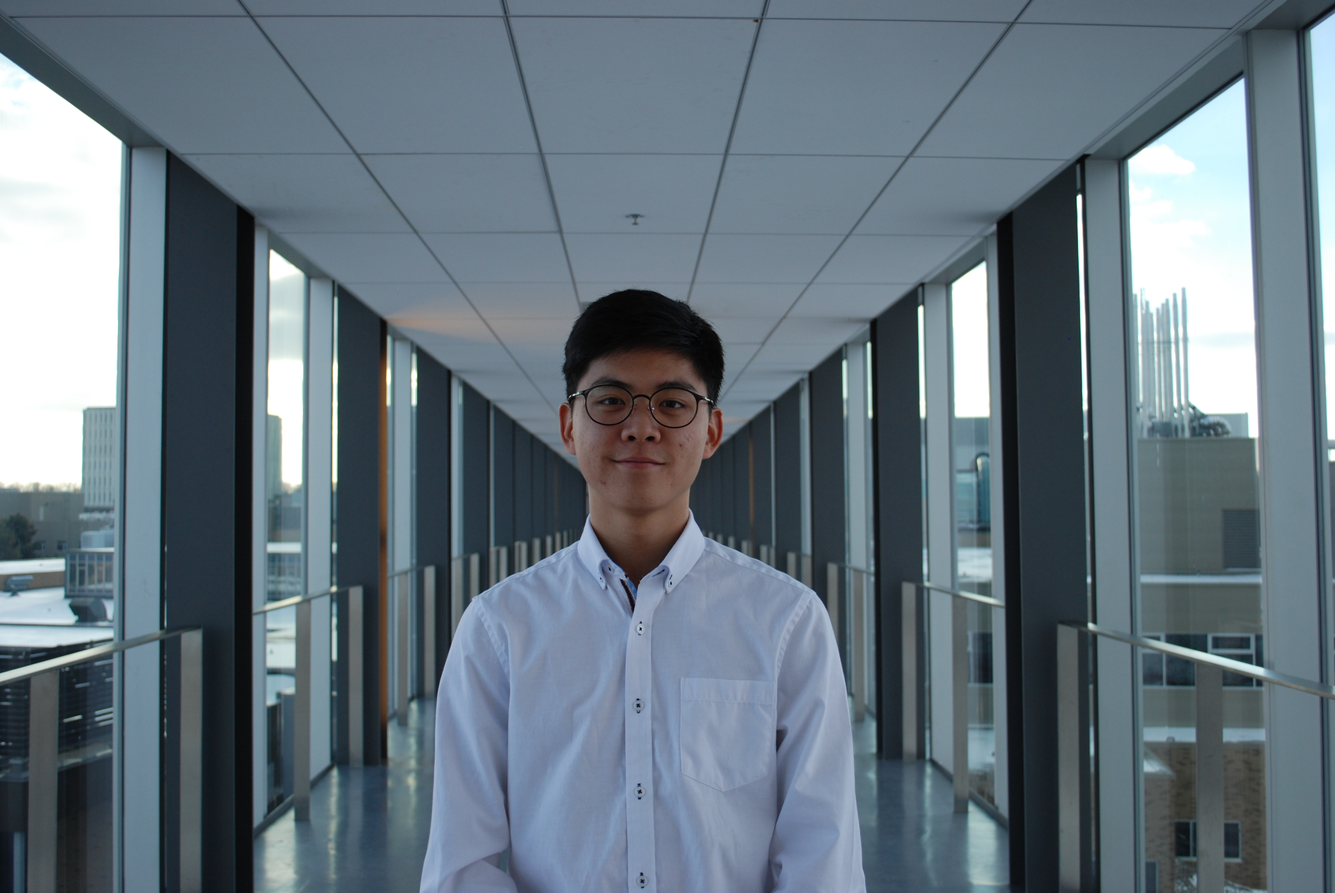
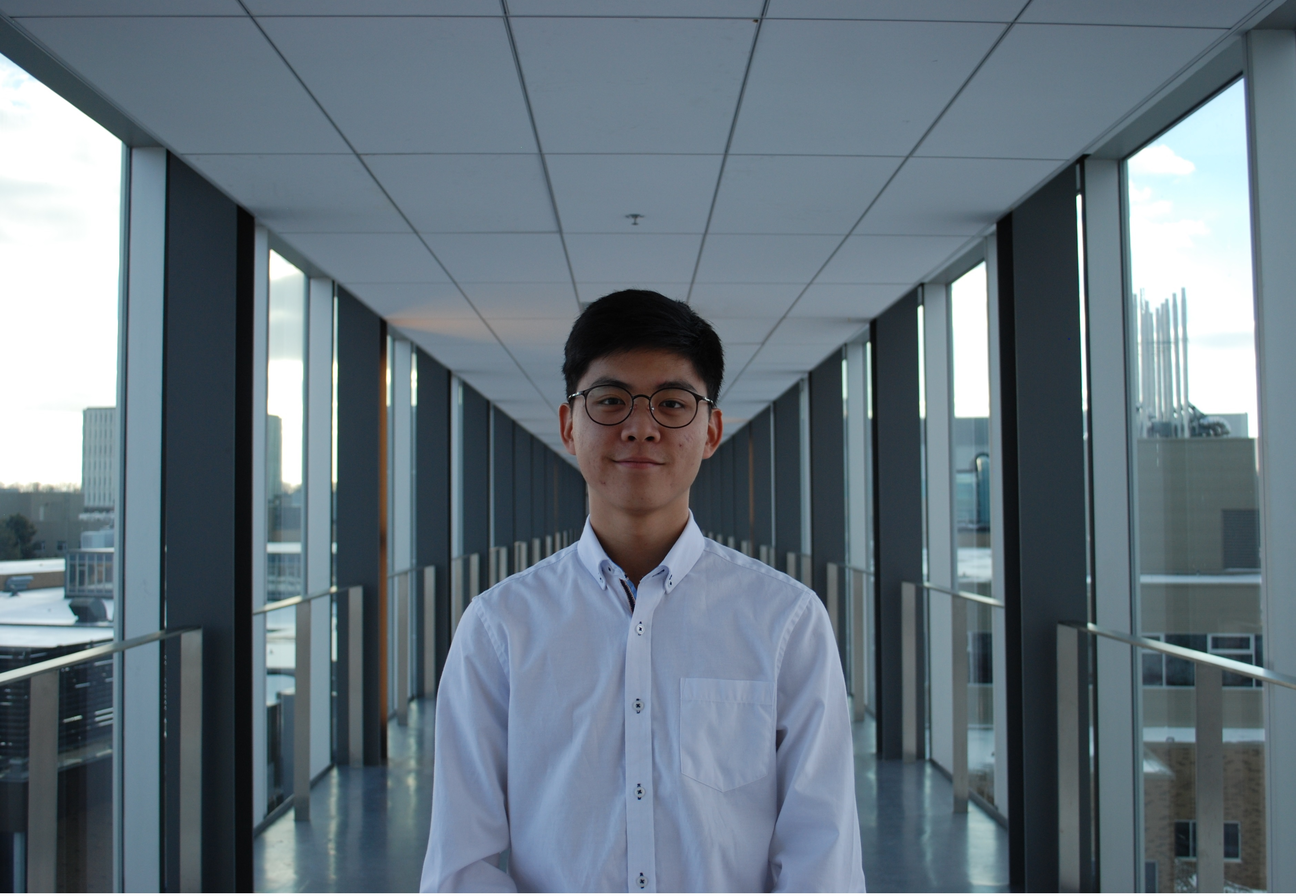
Small Tweaks
- Cropped hero page to align with text better
- deleted irrelevant pictrues
- added side project 2: Twitter Bot
- Added resume download button
- Changed bio

diff --git a/index.html b/index.html
@@ -18,6 +18,7 @@
                 <li><a href="#home">Home</a></li>
                 <li><a href="#about">About</a></li>
                 <li><a href="#contact">Contact</a></li>
+                <li><a href="stephens-resume.pdf" download>Resume</a></li>
             </ul>   
         </nav>
         
@@ -31,27 +32,31 @@
 
         <article id="about" class="background">
             <div class="grid-container" id="content">
-                <div class="item1"><h2>About me</h2></div>
-                <div class="item1 multi_columns">   What started with games like puzzles, and and Minecraft has led me to my love of programming today.
-                     Whether it'd be the games I mentioned or programming itself, the aspects I love include limitless creativity,
-                     the feeling of making progress and finishing something (the most euphoric feeling of all), and the logical/puzzle-like way of thinking and solving things. 
-                     One day I hope to be a part of the creation of something that will make everyone in the world just go, "Wow!"
-                     And thus why I have come to Waterloo in pursuit of this dream as a first-year computer science student.
-                     Hopefully one day you will see a project below that will fulfill this dream of mine.</div>
-                <div class="item1"><h2 style="padding: 2em 0 0.5em 0">Side Projects</h2></div>
-                <div>
-                    <h3 style="padding: 0 0 2em 0">Python Triangle Drawer/Solver</h3>
+                <div class="span2"><h2>About me</h2></div>
+                <div class="span2" style="font-size: 20px; text-align: left">Hi, I'm Stephen Hwang, and I am currently studying Computer Science
+                    at the University of Waterloo. Some of my interests include: piano, guitar, video games, e-sports 
+                    and programming (of course!). Some day I hope tp be able to make an impression on the world some day with 
+                    my computer programming. 
+                </div>
+                <div class="span2"><h2 style="padding: 2em 0 0.5em 0">Side Projects</h2></div>
+                <div style="grid-column: 1 / span 1">
+                    <h3>Python Triangle Drawer/Solver</h3>
                     <a href="https://github.com/StephenHwang156/Triangle-Solver-Drawer" target="_blank">
-                        <img src="pictures/triangle.PNG" alt="Triangle Project" id="image">
+                        <img src="pictures/triangle.PNG" alt="Triangle Project" class="image">
                     </a>
                     <p class="sideproject">A python program that solves a triangle using either angle sum theorem or pythagorean theorem
                         and draws the triangle using tkinter labelled with angles and side lengths.
                     </p>
                 </div>
-                <!--<div>
-                    <h3>Side Project #2</h3>
-                    <p>Yeet#2</p>
-                </div>-->
+                <div style="grid-column: 2 / span 1">
+                    <h3>Twitter Bot</h3>
+                    <a href="https://github.com/StephenHwang156/Twitter-Bot" target="_blank">
+                        <img src="pictures/ifunny.PNG" alt="Twitter Bot Project" class="image">
+                    </a>
+                    <p class="sideproject">A Twitter bot that scrapes image macros from ifunny.co, and posts them
+                        onto the designated Twitter account.
+                    </p>
+                </div>
             </div>
             
         </article>

diff --git a/style.css b/style.css
@@ -17,7 +17,6 @@ body {
 h1 {
     position: relative;
     text-align: center;
-    right: 30px;
     top: 275px;
     color: rgb(244, 252, 255);
     font-size: xx-large;
@@ -25,6 +24,10 @@ h1 {
 
 h2 {
     text-align: center;
+}
+
+h3 {
+    padding: 0 0 2em 0
 }
 
 ul {
@@ -78,8 +81,8 @@ article {
     padding: 10px;
 }
 
-.item1 {
-    grid-column: 1 / span 1;
+.span2 {
+    grid-column: 1 / span 2;
 }
 
 .background {
@@ -87,6 +90,17 @@ article {
     background-position: center center; 
     background-repeat: no-repeat; 
     background-attachment: fixed; 
+}
+
+.image {
+    border: 1px solid #ddd;
+    border-radius: 5%;
+    height: 20em;
+    width: 20em;
+}
+
+.image:hover {
+    box-shadow: 0 0 3px 2px rgba(0, 140, 186, 0.5);
 }
 
 .multi_columns {
@@ -101,13 +115,6 @@ article {
 
 #name {
     font-size: 200%;
-}
-
-#image {
-    border: 1px solid black;
-    border-radius: 5%;
-    height: 20em;
-    width: 20em;
 }
 
 #content {
